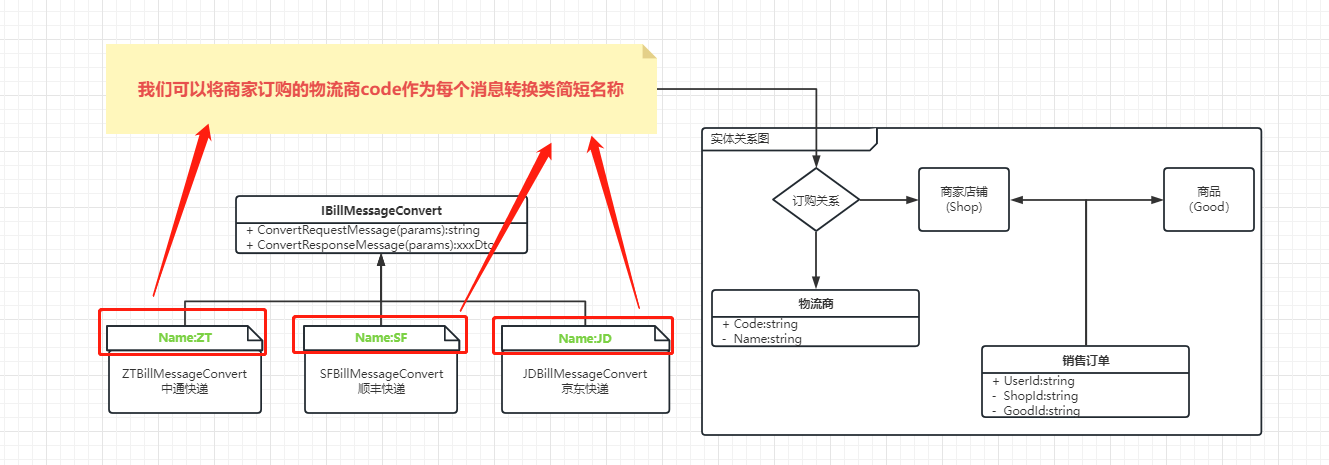
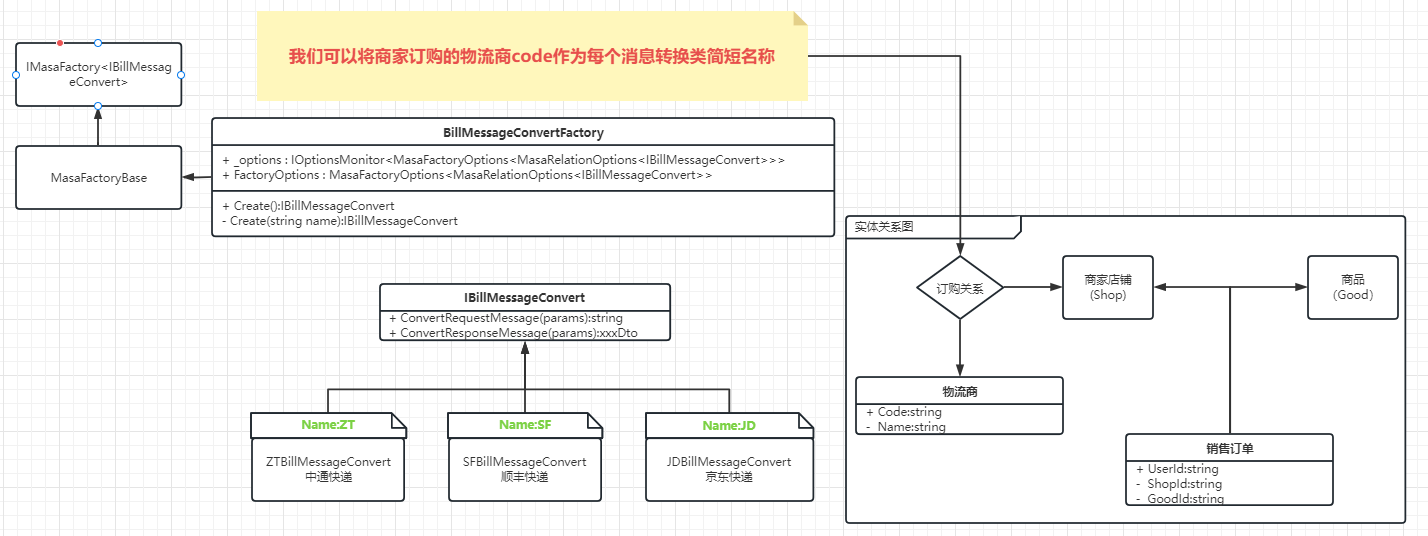
调整文章字句

Changed region(s): [[0.0, 0.0, 0.9872, 0.9935]]

diff --git a/docs/source_code_article/01-MasaFramework源码揭秘-构建工厂.md b/docs/source_code_article/01-MasaFramework源码揭秘-构建工厂.md
@@ -26,9 +26,9 @@
 
 ## 一个实际项目中的场景
 
-接下来让我们看下Masa Framework最底层最开始的设计：构建工厂（PS：这个名字是我自己取得）。大家都知道我们日常项目中开发都会用到依赖注入，IOC容器。虽然微软官方也提供了IServiceCollection，但是面对一个接口多种实现的模式，官方只能注入IEnumerable集合，而定位某个具体的实现类就比较困难。例如：
+接下来让我们看下Masa Framework框架起点的设计：MasaFactory（构建工厂）（PS：构建工厂这个名字是我取得），之所以从这个工厂说起，是因为其他模块都是用的这个工厂模式。大家都知道我们日常项目中开发都会用到依赖注入，IOC容器。虽然微软官方也提供了IServiceCollection，但是面对一个接口多种实现的模式，官方只能注入IEnumerable集合，而定位某个具体的实现类就比较困难。例如：
 
-* 场景：在物流仓储系统中，当仓储收到销售订单发货时，需要申请物流面单，不同商家店铺可能订购了不同的快递服务。A商家店铺订购了顺丰、B商家店铺订购了中通，那么我们在申请物流面单的时候，由于每家快递的请求和返回信息不同，就会有以下这种设计：一个面单消息转换接口，多个快递上的消息转换实现
+* 场景：在物流仓储系统中，当仓储收到销售订单发货时，需要申请物流面单，不同商家店铺可能订购了不同的快递服务。A商家店铺订购了顺丰、B商家店铺订购了中通，那么我们在申请物流面单（运单号，纸质运单打印）的时候，由于每家快递的请求和返回信息不同，就会有以下这种设计：一个面单消息转换接口，多个快递商的消息转换实现
 
 	![](./images/billexample.png)
 
@@ -40,11 +40,11 @@
 
 我们点开源码，先看```Masa.BuildingBlocks.Data.Contracts``` 这个类库的设计![](./images/factory_design.png)
 
-MASA Framework的构建工厂通过options配置，可以给接口的每个实现类赋予一个简短的名称。我们来看下利用masa的构建工厂设计面单请求消息的设计图：
+MASA Framework的构建工厂通过options配置，可以给接口的每个实现类赋予一个简短的名称，然后通过工厂类的Create方法根据传入不同的名称，来创建对应的实例。我们来看下利用masa的构建工厂设计面单请求消息的设计图：
 
 ![](./images/billmasadesign.png)
 
-理论讲得多，不如实操一次，话不多说，下面进入我们的代码环节。
+这样我只需要传入一个简短的名称，就能创建对应的面单消息转换类，是不是比IEnumerable集合方便呢？写再多理论也不如实操一次，下面进入我们的代码环节。
 
 ## demo项目示例
 
